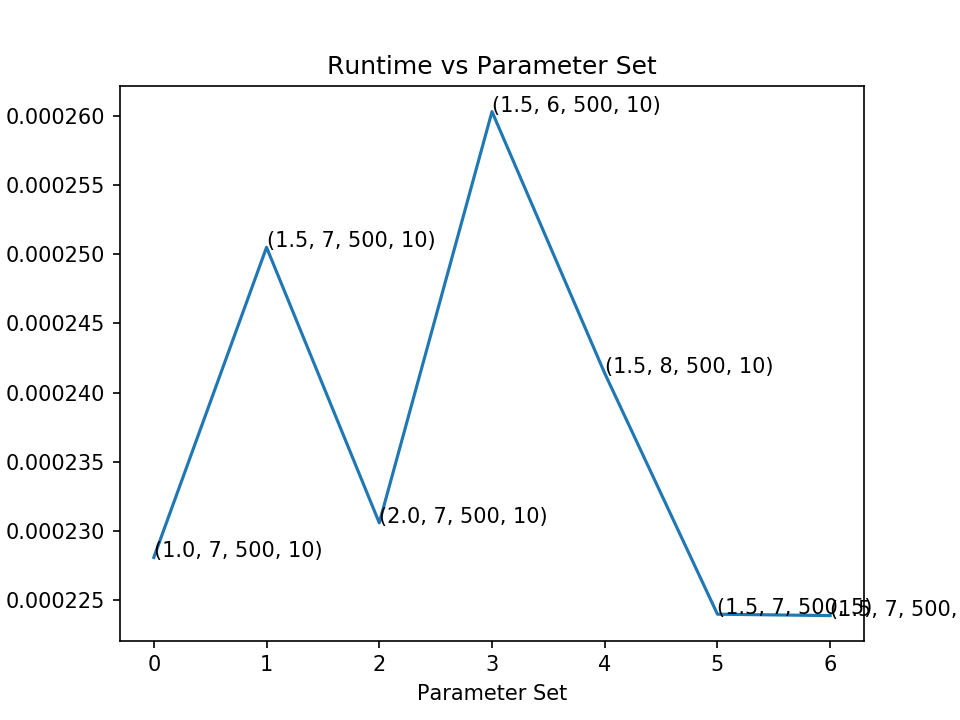
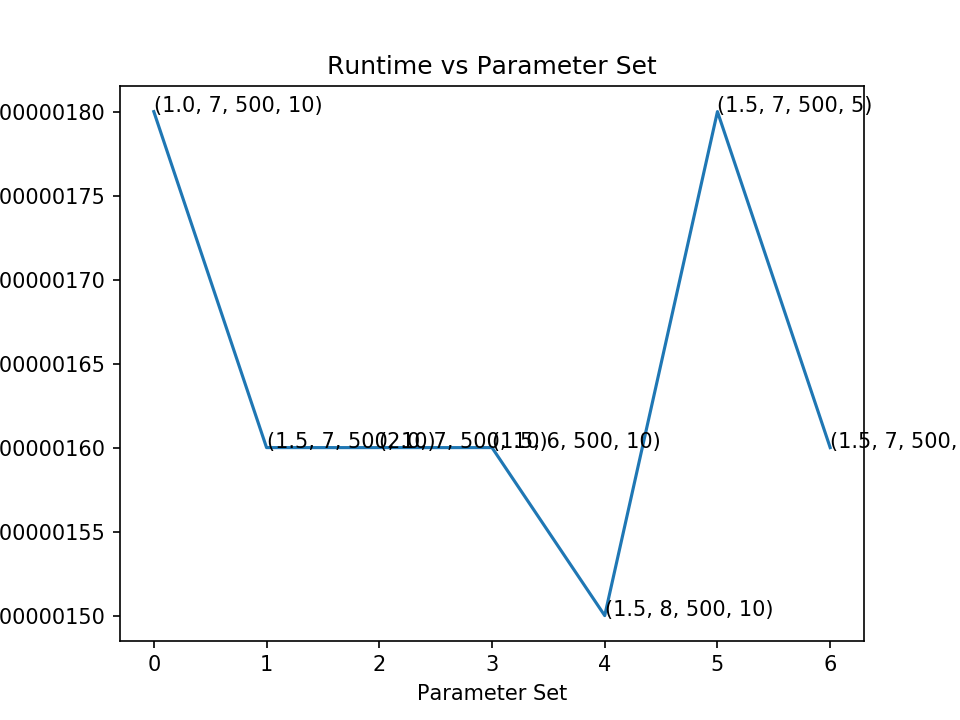
update few lines

diff --git a/evaluate.py b/evaluate.py
@@ -8,12 +8,6 @@ from motif_finder import MotifFinder
 import matplotlib.pyplot as plt
 from shutil import copytree,copyfile # for testing
 
-try:
-	os.mkdir('results')
-except FileExistsError:
-	pass
-	#print('folder results: already exists')
-
 def import_motif(file):
 	"""
 	Used by function KL_divergence
@@ -69,23 +63,15 @@ def num_overlap_sites(data_i = 0):
 	return result
 
 
-def runtime(data_i = 0):
-	"""CPU runtime"""
-	start = time.process_time() # CPU time
-	## code
-	for i in range(10000):
-		pass
-	##code
-	end = time.process_time()
-	# print('CPU runtime: {0:.6f} sec'.format(end - start))
-
-	return round(end - start,6)
-
-
 """
 Testing
 
 Iterate over parameter. Average for i to i+9 for each parameter set
+
+Generating parameters set (length = 7) for iteration. 
+See benchmarks.py for order. 
+Each parameter_set has 10 datasets in that order
+
 """
 
 icpc = [1.0, 1.5, 2.0] # info_cont_per_col
@@ -97,10 +83,8 @@ default_ml = 7
 default_icpc = 1.5
 default_sc = 10
 
-
-""" Generating parameters set (length = 7) for iteration. See benchmarks.py for order. Each parameter_set has 10 datasets in that order """  
+# Populating parameters set
 params_set = [] 
-
 for i in icpc: # count = 3
 	params_set.append([i,default_ml,sl,default_sc]) 
 
@@ -116,6 +100,12 @@ result_kl_div = []
 result_overlap_pos = [] 
 result_overlap_sites = [] 
 result_runtime = []
+
+try:
+	os.mkdir('results')
+
+except FileExistsError:
+	print('folder results: already exists')
 
 for i,pset in enumerate(params_set):
 	kl_div = []
@@ -137,7 +127,7 @@ for i,pset in enumerate(params_set):
 			copyfile(dest_folder + '/motif.txt', dest_folder + '/predictedmotif.txt')
 		
 		except:
-			# print(sys.exc_info()[0])
+			# print('folder already exists',sys.exc_info()[0])
 			pass
 
 		"""
@@ -148,19 +138,24 @@ for i,pset in enumerate(params_set):
 		sol = MotifFinder()
 		sol.set_motif_length(dest_folder + '/motiflength.txt')
 		sol.import_sequences(dest_folder + '/sequences.fa')
+
+		start_time = time.process_time() # CPU time: run start
+
 		sol.predict_motif() # creates predictedmotif.txt
 		sol.predict_sites() # creates predictedsites.txt
 
-		
+		end_time = time.process_time() # CPU time: run end 
+
 		"""
 		
 		Calling evaluator functions
 
 		"""
+
 		kl_div.append(KL_divergence(filenum))
 		overlap_pos.append(num_overlap_pos(filenum))
 		overlap_sites.append(num_overlap_sites(filenum))
-		runtimes.append(runtime(filenum))
+		runtimes.append(round(end_time - start_time,8))
 
 	result_kl_div.append(np.mean(kl_div))
 	result_overlap_pos.append(np.mean(overlap_pos)) 
@@ -168,18 +163,21 @@ for i,pset in enumerate(params_set):
 	result_runtime.append(np.mean(runtimes))
 
 
-print(result_kl_div) 
-print(result_overlap_pos) 
-print(result_overlap_sites)
-print(result_runtime)
+print("KL_Divergence:",result_kl_div) 
+print("Overlapping Postions",result_overlap_pos) 
+print("Overlapping Sites:",result_overlap_sites)
+print("Runtimes",result_runtime)
 
 try:
 	os.mkdir('performance_plots')
 
 except FileExistsError:
-	pass
-	#print('folder performace_plots: already exists')
+	print('folder performace_plots: already exists')
 
+"""	
+Plotting Results
+
+"""
 
 def plotter(X,Y, y_lab = None):
 	plt.plot(np.arange(len(params_set)), Y)
@@ -187,6 +185,7 @@ def plotter(X,Y, y_lab = None):
 	plt.xlabel('Parameter Set')
 	plt.ylabel(y_lab)
 	plt.ticklabel_format(axis = 'y',style = 'sci')
+
 	for i, txt in enumerate(X):
 		plt.annotate(tuple(txt), (i, Y[i]))
 

diff --git a/motif_finder.py b/motif_finder.py
@@ -29,7 +29,6 @@ class MotifFinder:
 	def set_motif_length(self,lengthfile):
 		""" 
 		number of DNA sequences in the file sequences.fa 
-
 		"""
 		with open(lengthfile,'r') as f:
 			lines = f.readlines()
@@ -39,7 +38,6 @@ class MotifFinder:
 	def import_sequences(self,sequencesFile):
 		""" 
 		sequencesFile is the file name in results/dataset{i}
-
 		"""
 		with open(sequencesFile,'r') as f:
 			lines = f.readlines()
@@ -54,7 +52,6 @@ class MotifFinder:
 		Algorithm to find position weight matrix using all sequences in the file
 		output
 		:predictedmotif.txt
-
 		"""
 		pass
 
@@ -64,15 +61,13 @@ class MotifFinder:
 		uses predictedmotif to locate one site per sequence
 
 		output
-		:predictedsites.txt - (one number for each of numSequnces lines)
-	
+		:predictedsites.txt - (one number for each of numSequnces lines)	
 		"""
 		pass
 
 
 """
 Tester code
-
 """	
 
 # dest_folder = 'results/dataset' + str(0)
